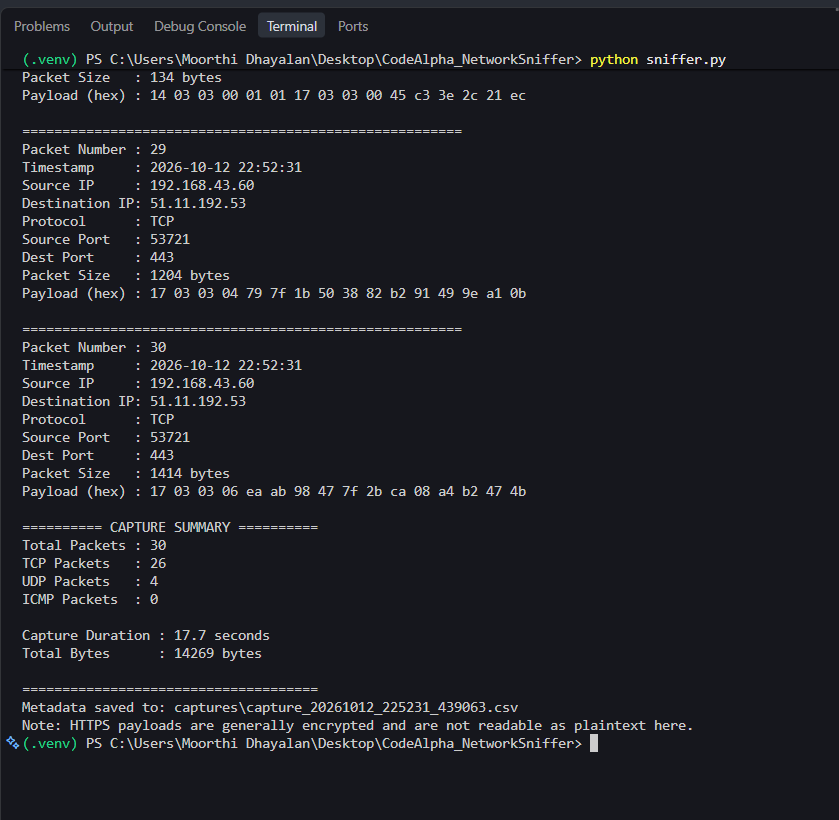
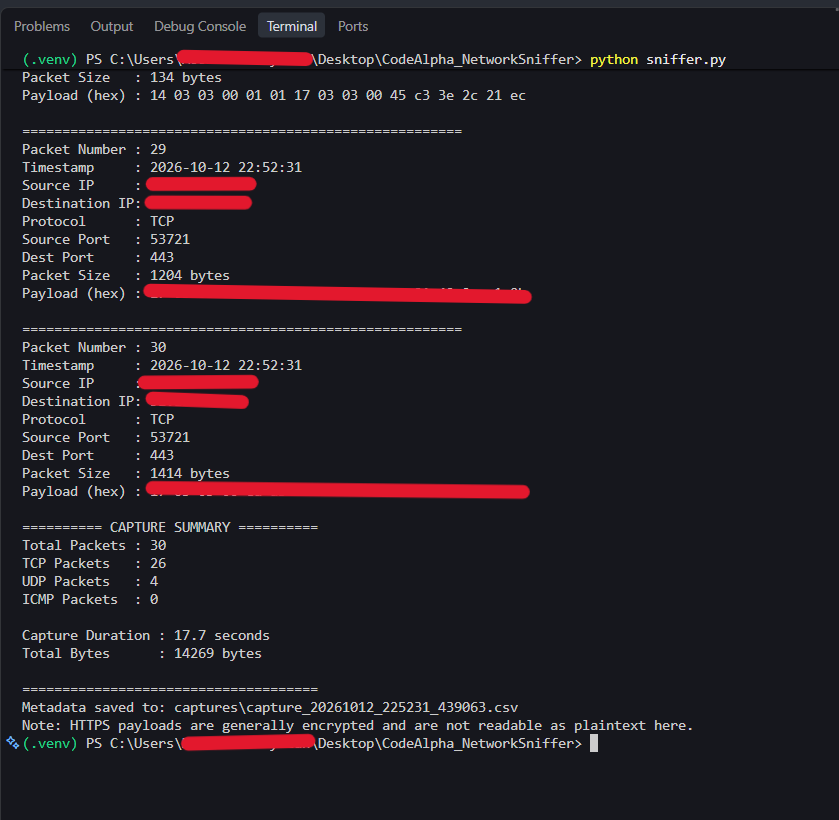
docs: replace screenshots with sanitized examples

diff --git a/README.md b/README.md
@@ -5,6 +5,7 @@ A beginner-friendly terminal network sniffer built for the CodeAlpha Cybersecuri
 ## Features
 
 - IPv4 capture modes for all traffic, TCP, UDP, or ICMP
+- Fully offline demo mode with deterministic TCP, UDP, and ICMP synthetic packets
 - Source/destination IPs, ports, timestamps, sizes, and protocol classification
 - Maximum packet count configuration and Ctrl+C early stopping
 - Sixteen-byte hexadecimal payload preview for terminal learning only
@@ -57,8 +58,26 @@ Example menu:
 2. Capture TCP Packets
 3. Capture UDP Packets
 4. Capture ICMP Packets
-5. Exit
+5. Offline Demo (synthetic data)
+6. Exit
 ```
+
+### Privacy-safe screenshot demo
+
+Choose **5. Offline Demo (synthetic data)** from the menu. The demo constructs
+three packets in memory using only the documentation-only addresses
+`192.0.2.10` and `203.0.113.20`; it never opens a capture interface, sends
+traffic, or reads the network. It prints packet analysis and protocol
+statistics, then exports the same metadata-only CSV format to `captures/`.
+
+The output is explicitly marked **DEMO / SYNTHETIC DATA** so it is suitable
+for internship screenshots. For clean screenshots:
+
+1. Run `python sniffer.py` in a terminal sized to show the menu and output.
+2. Select option `5` and capture the packet details plus summary.
+3. Include the `DEMO / SYNTHETIC DATA` label in every screenshot.
+4. Crop out your username, home-directory path, and unrelated terminal tabs.
+5. Do not screenshot live-capture output or publish CSV files from real traffic.
 
 Example output (fictional addresses):
 
@@ -88,16 +107,9 @@ Tests use synthetic Scapy packets and do not perform live capture.
 
 ## Screenshots / Project Demonstration
 
-The `docs/screenshots/` directory contains terminal demonstrations of the
-interactive menu, TCP capture configuration, packet metadata output, and the
-capture summary/CSV export flow. These screenshots are currently withheld from
-the README because the supplied images include a local Windows username and
-path, live-looking IP addresses, and hexadecimal packet payload previews.
-
-Before publishing, replace them with sanitized copies that use fictionalized
-addresses, remove the local username/path, and remove or mask payload output.
-Once sanitized, embed each approved image here with a short caption describing
-the corresponding demonstration.
+The `docs/screenshots/` directory can contain screenshots produced by the
+offline demo above. Review each image before publishing and remove any local
+username, path, unrelated terminal content, or accidental live-capture data.
 
 ## Project structure
 
